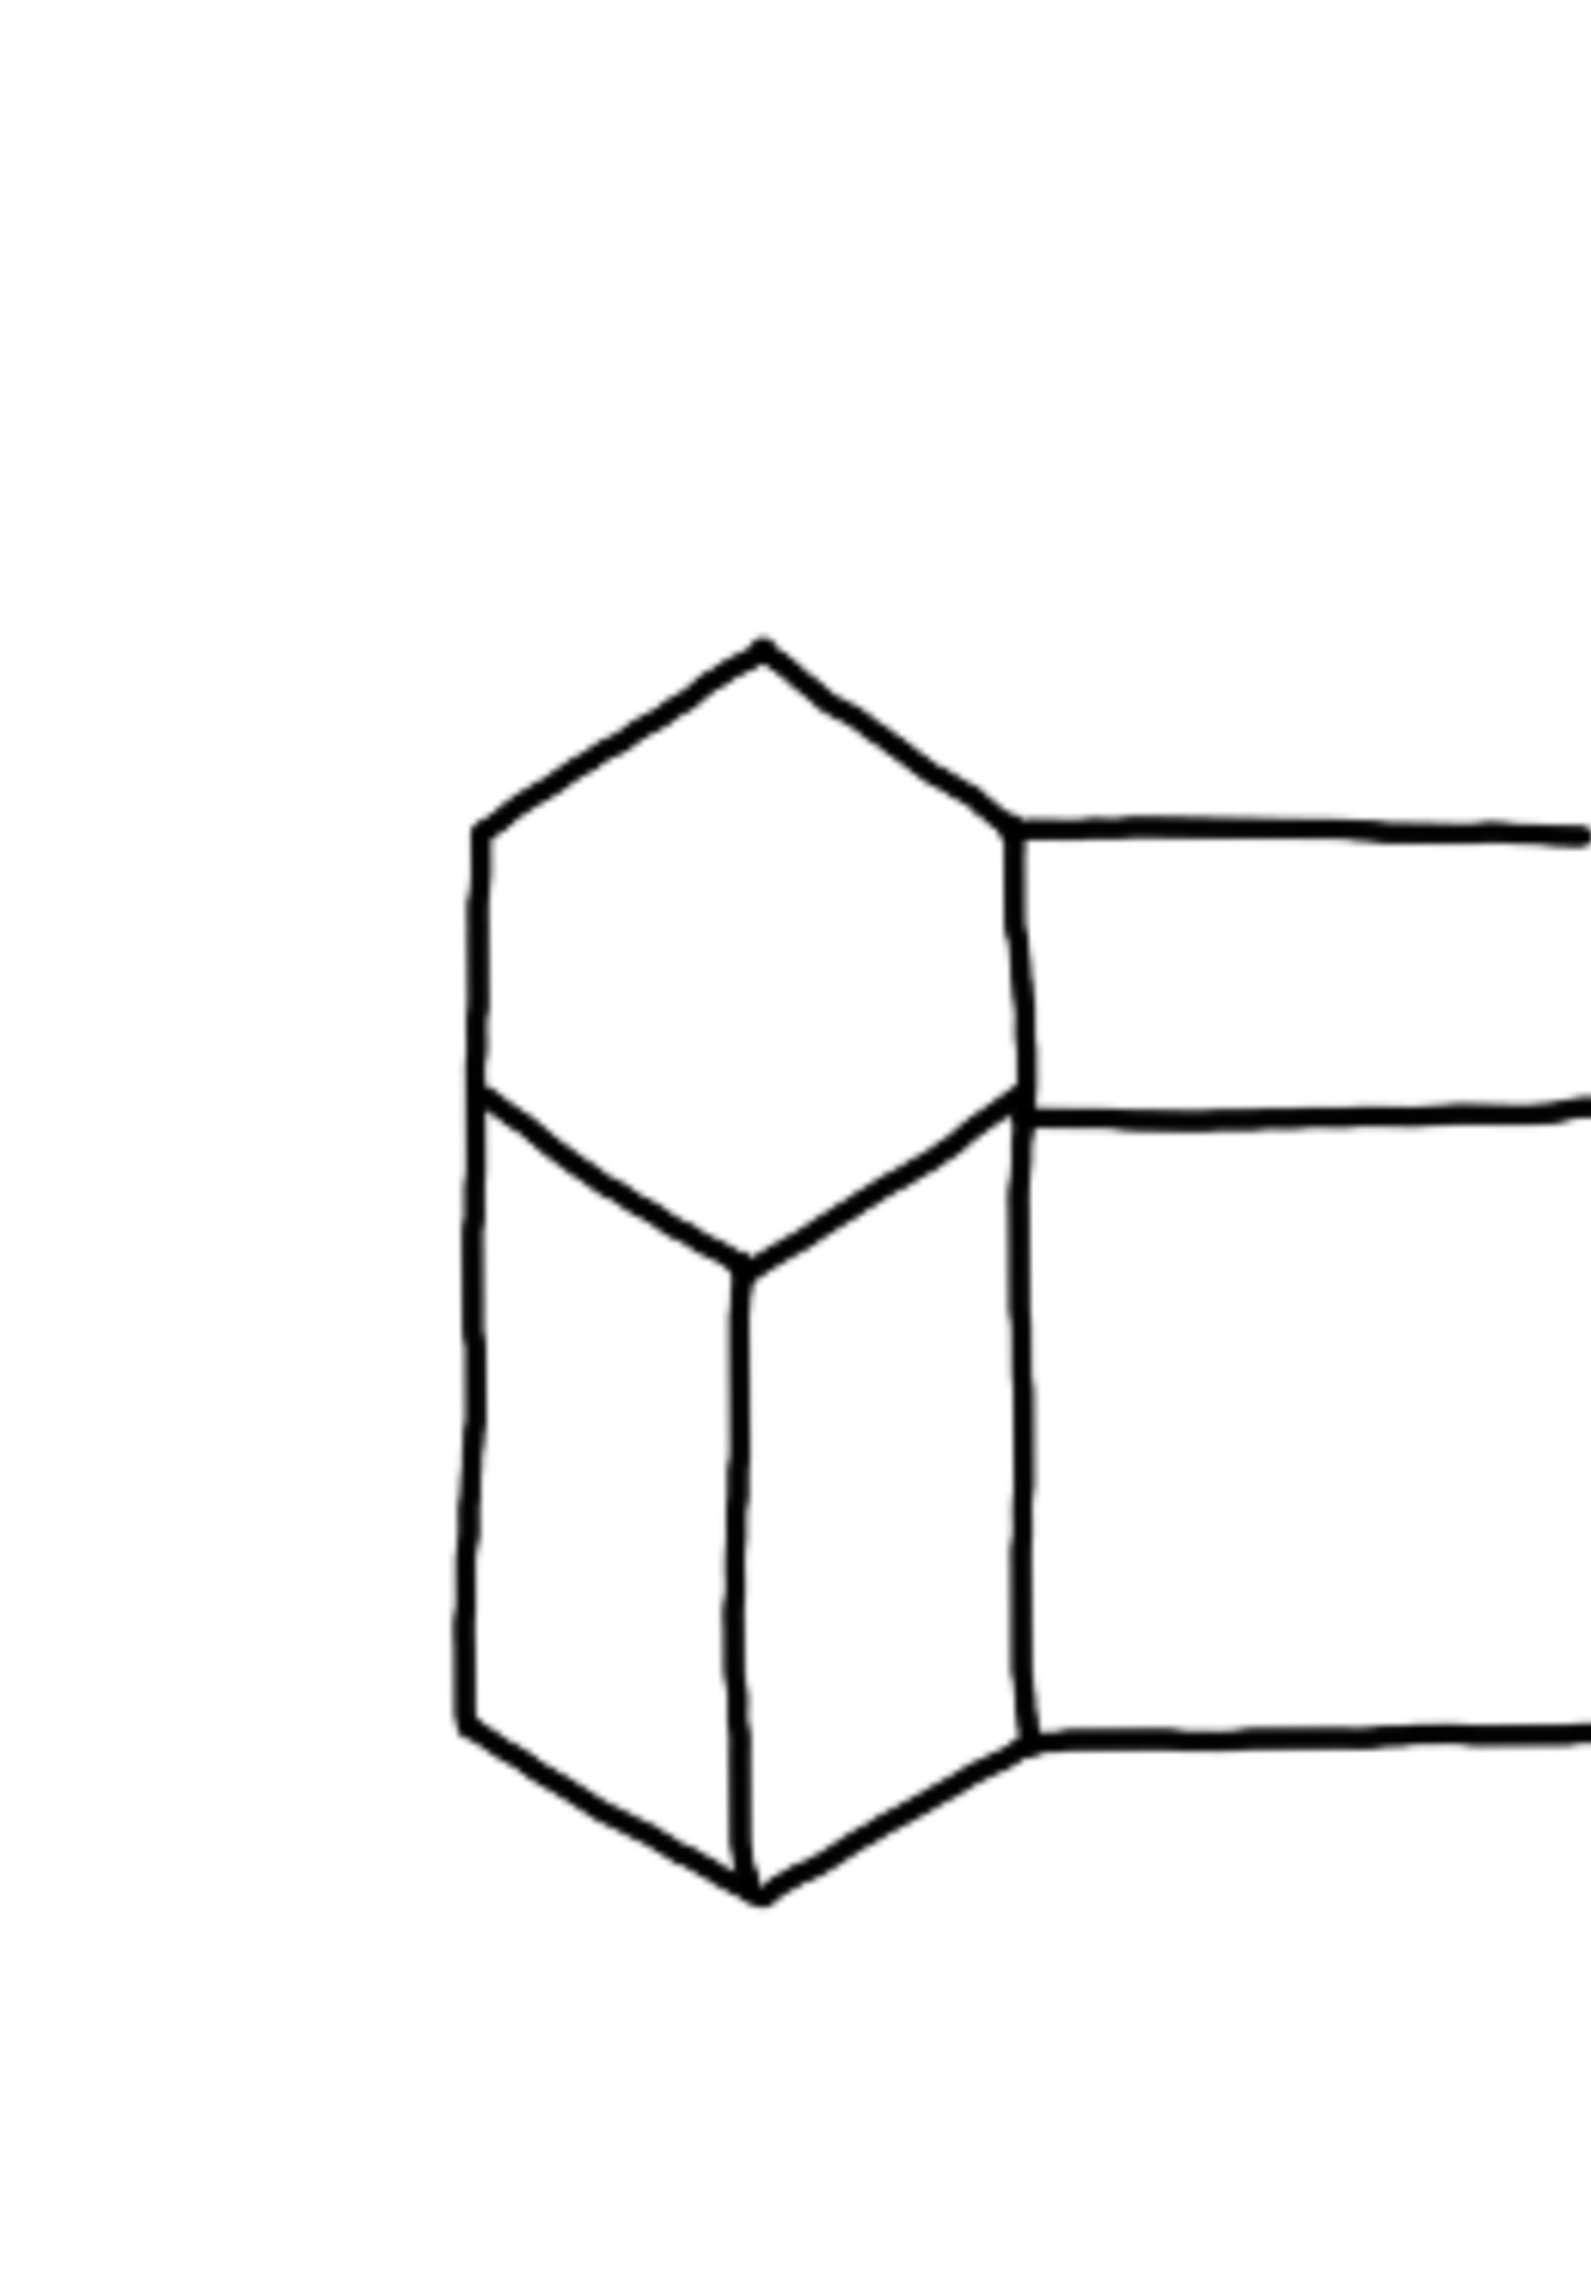
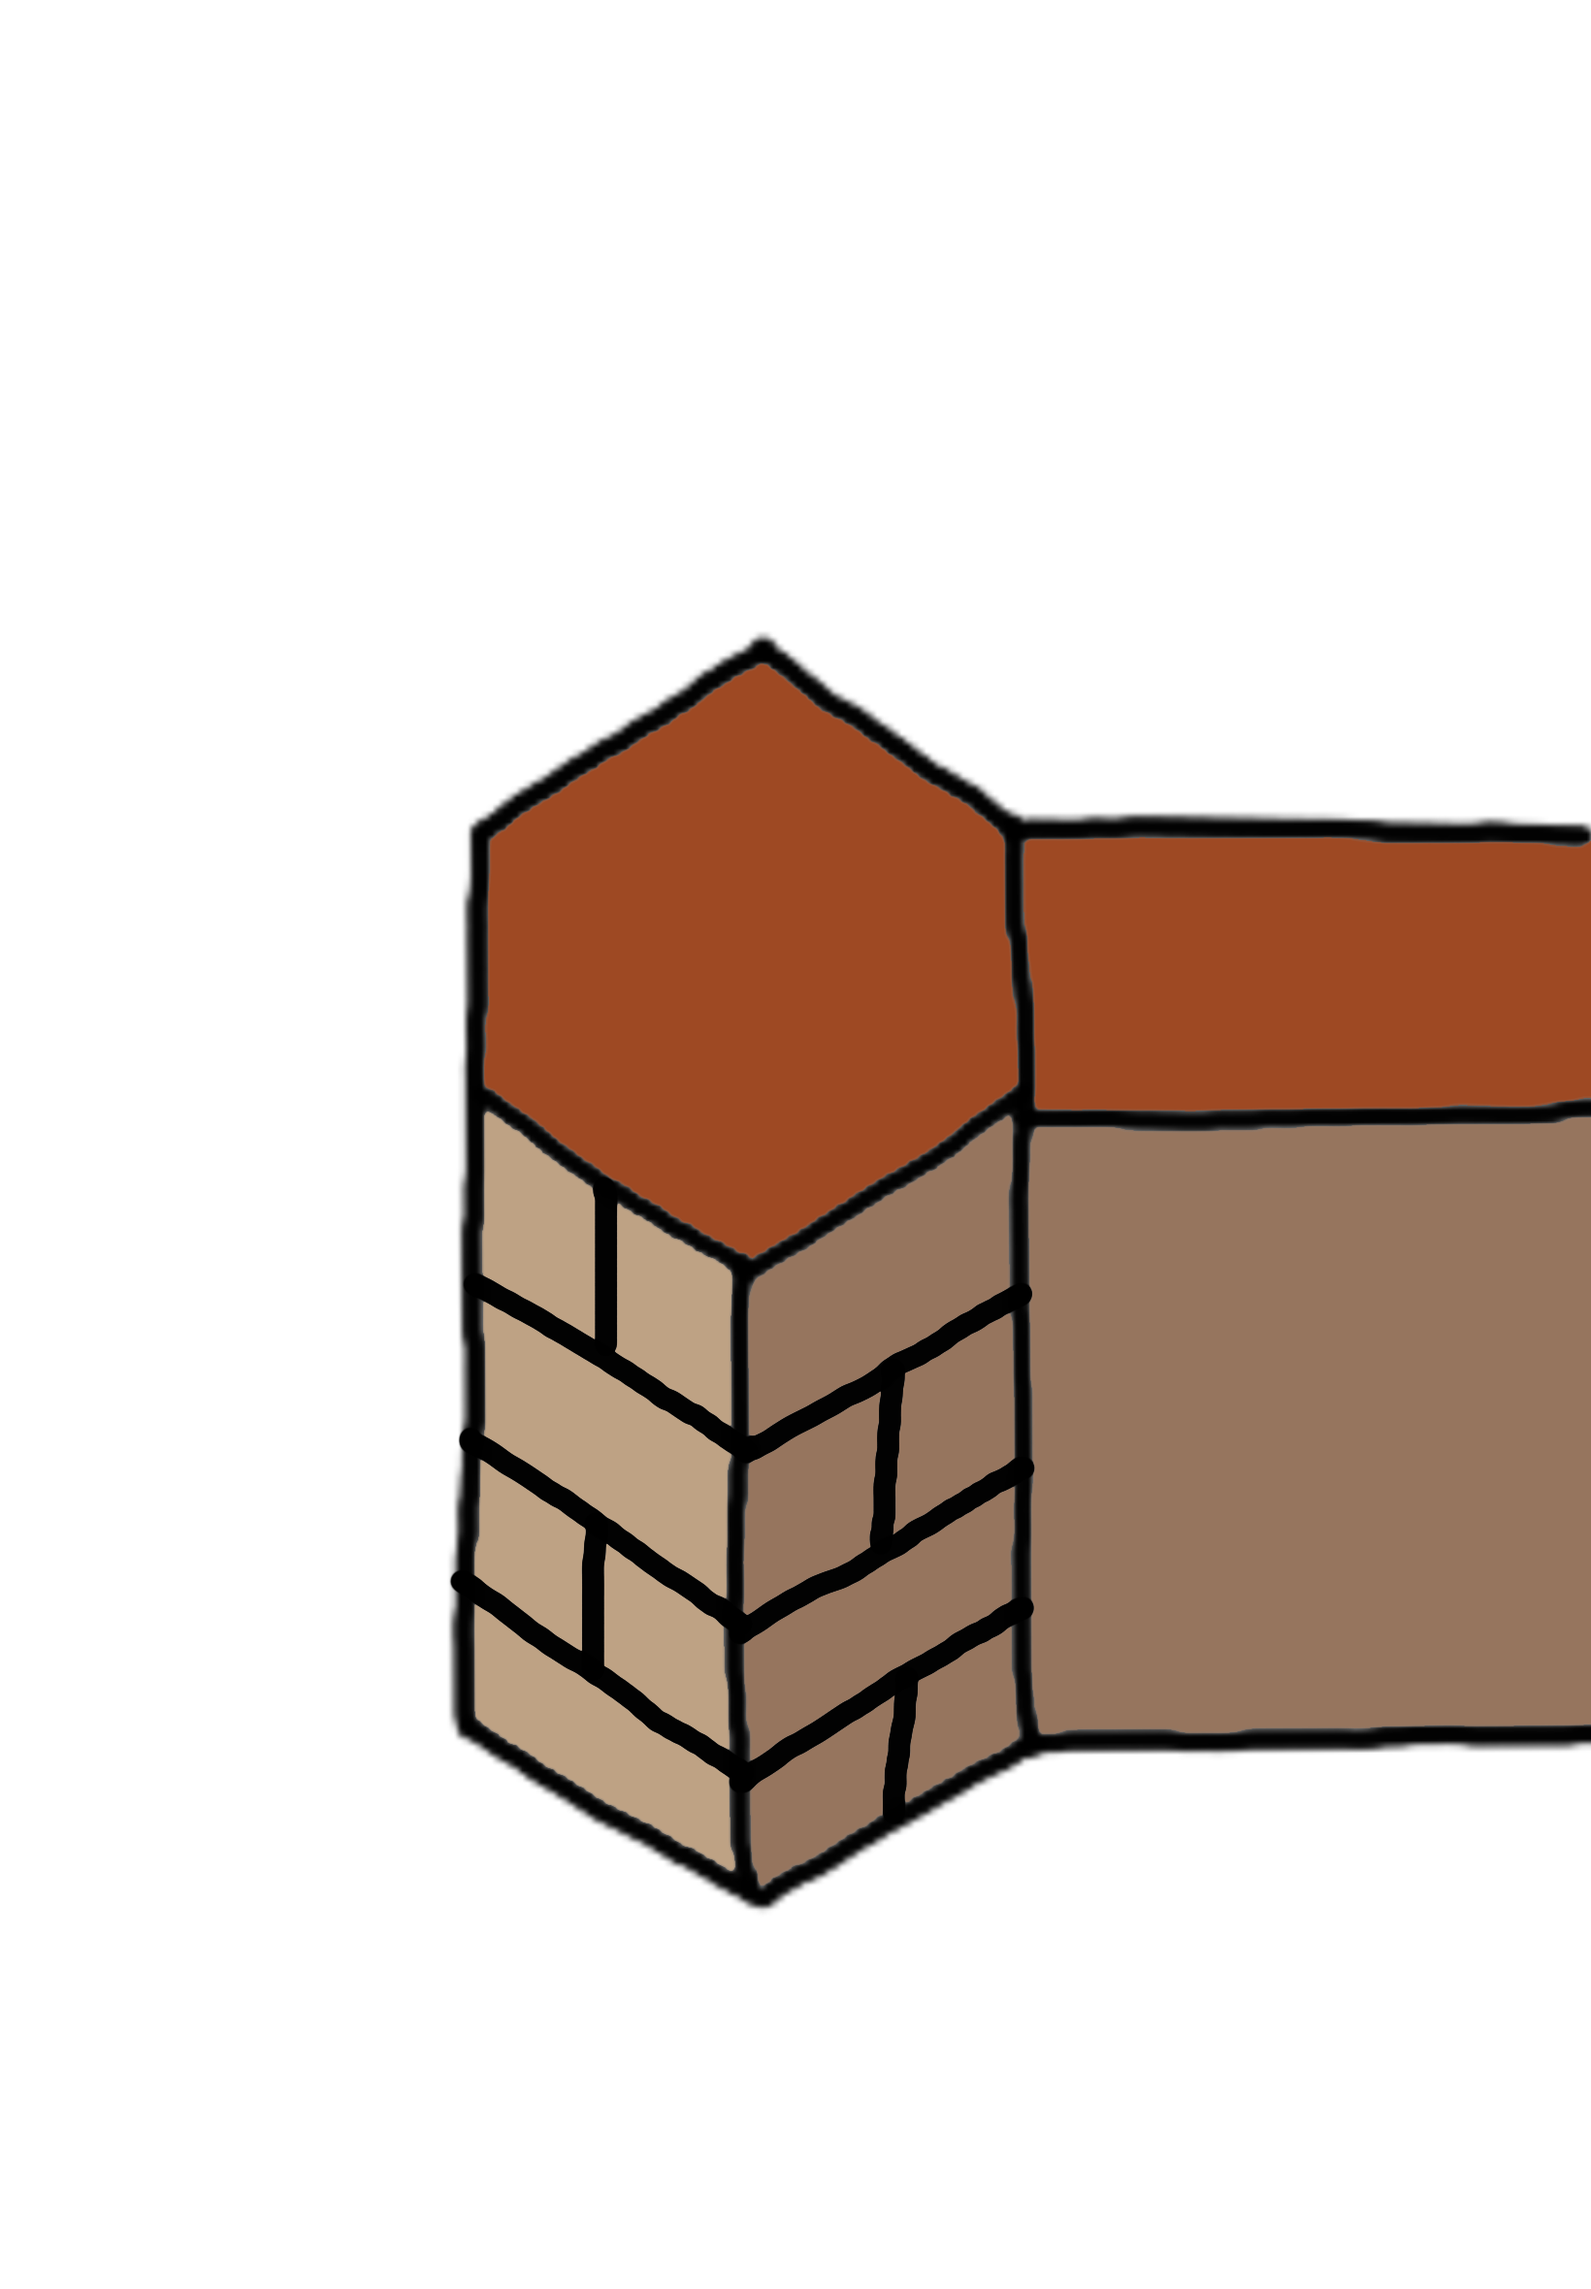
Ajout sprites murs + onhover

Changed region(s): [[0.2799, 0.2784, 1.0, 0.8352]]

diff --git a/frontend/affichage.js b/frontend/affichage.js
@@ -442,9 +442,17 @@ function attaqueAnim(caseDepart, caseArrivee, chiffre, fun) {
 function fstatsUnite(unite) {
     let statsimg = d3.select("#statsUnite");
     statsimg.selectAll("*").remove();
-    statsimg.append("img")
+
+    if(unite.name == "Mur") {
+        statsimg.append("img")
+        .attr("src", "img/murs/murdroite.png")
+        .attr("width", 180).attr("height", 150);
+    }
+    else{
+        statsimg.append("img")
         .attr("src", "img/personnages/" + unite.couleur + "/" + unite.name.toLowerCase() + ".png")
         .attr("width", 180).attr("height", 150);
+    }
 
     let stats = d3.select("#statsUnite").append("div").attr("id", "unitStats");
     stats.selectAll("*").remove();
